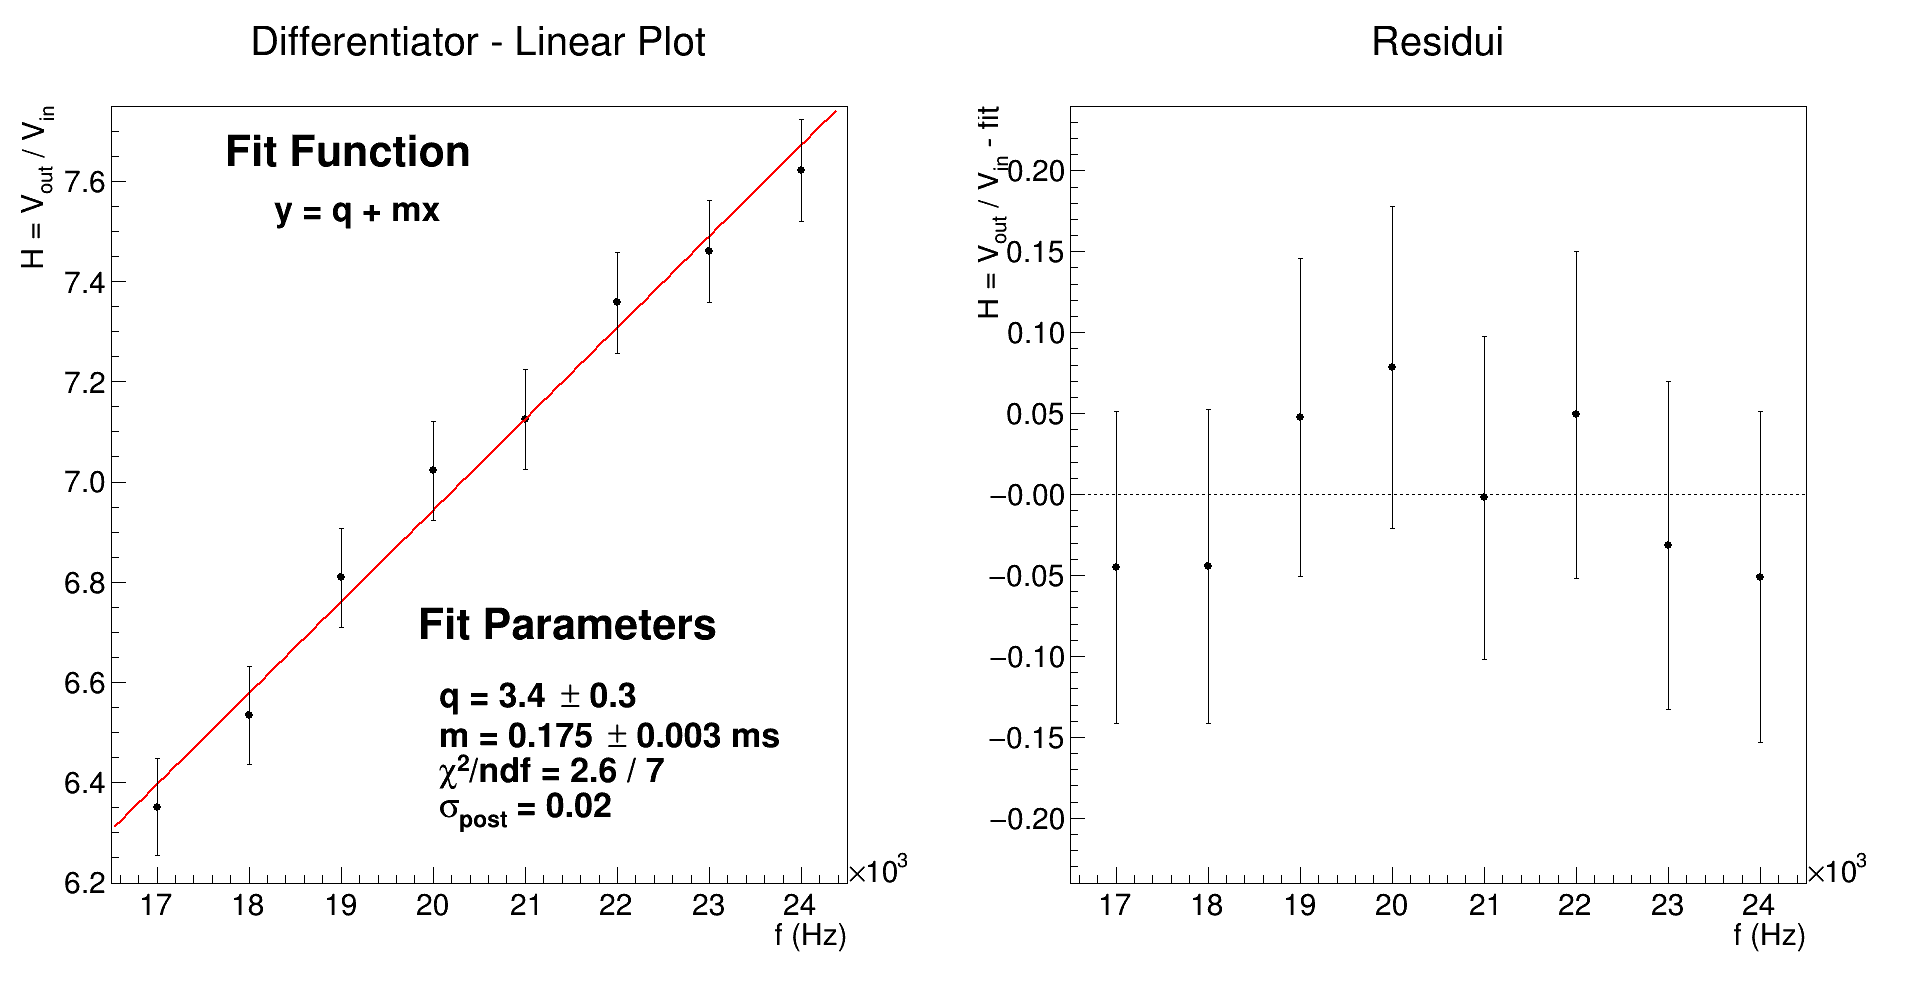
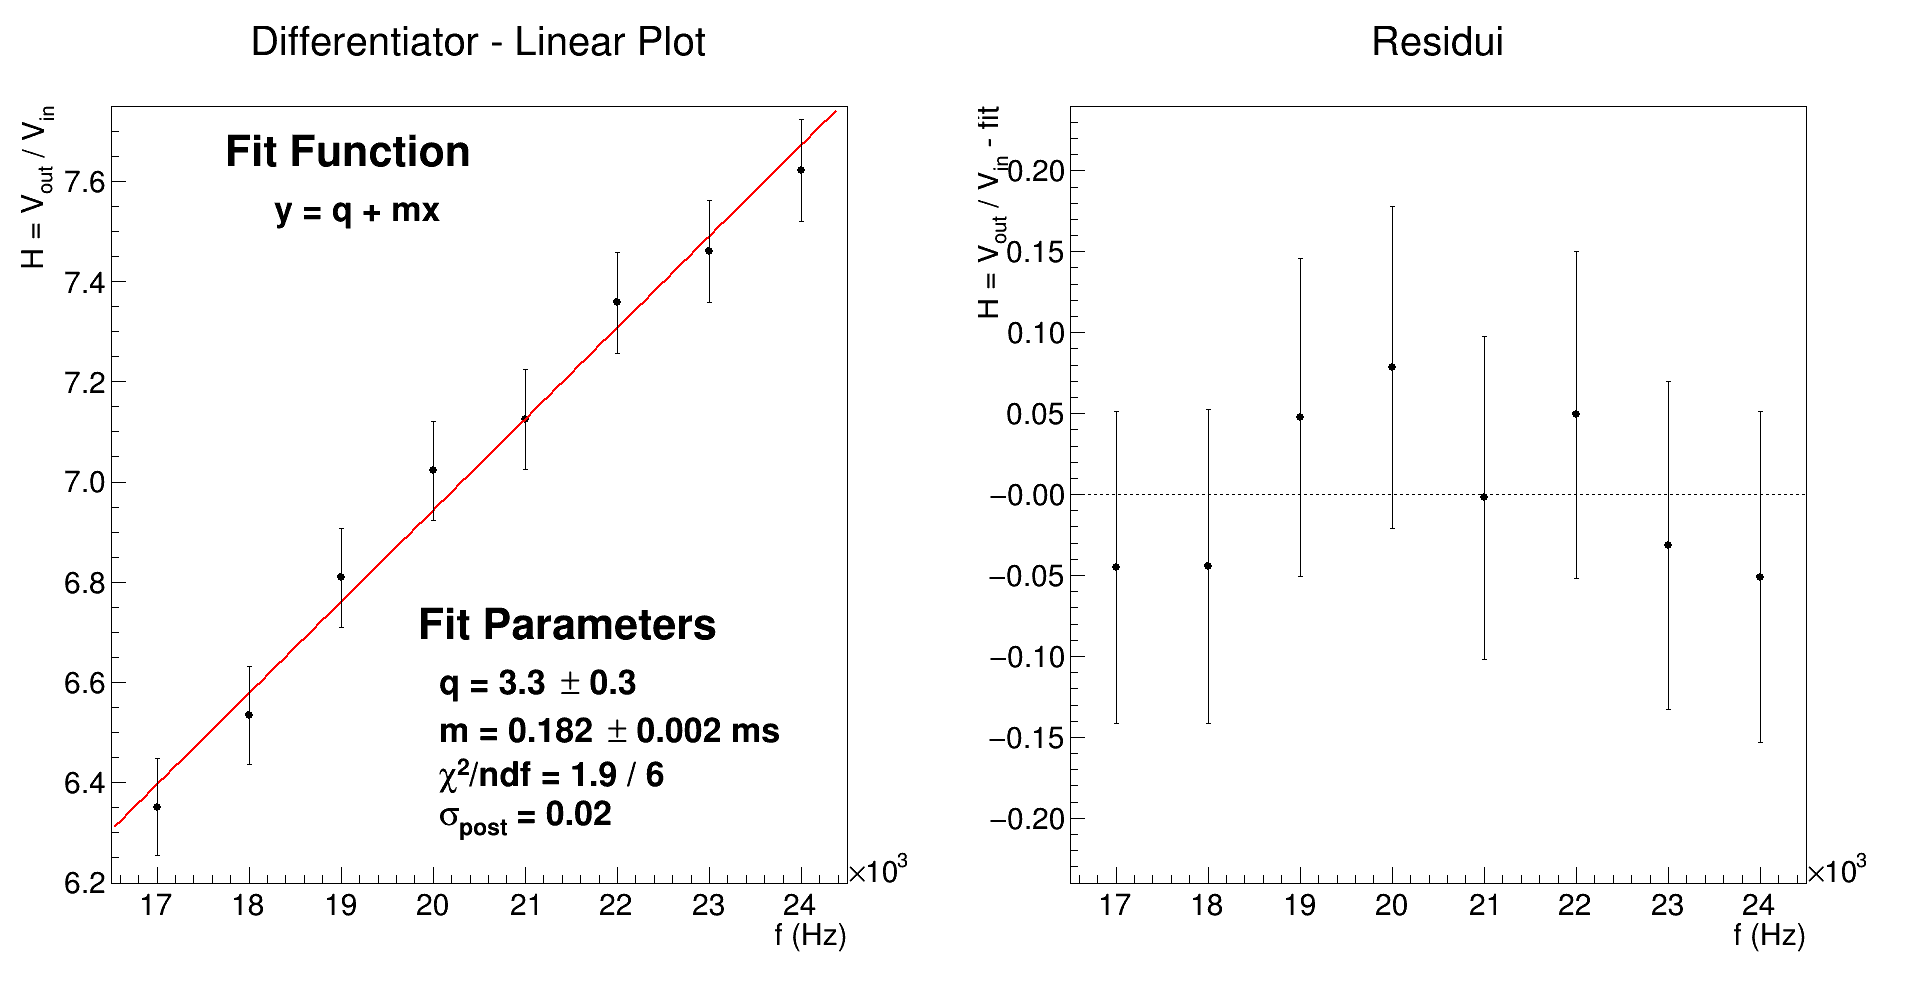
Report Updates

Changed region(s): [[0.2153, 0.666, 0.4307, 0.8476]]

diff --git a/AMPLIFICATORI OPERAZIONALI/ROOT macros/differentiator_bode_linear.cpp b/AMPLIFICATORI OPERAZIONALI/ROOT macros/differentiator_bode_linear.cpp
@@ -105,8 +105,8 @@ void differentiator_bode_linear() {
 
     latex(text);
 
-    //double err_post = err_posteriori(fit_lineare, x, y);
-    //cout << err_post << endl;
+    double err_post = err_posteriori(fit_lineare, x, y);
+    cout << err_post << endl;
 
     return;
 }
@@ -256,15 +256,15 @@ void latex (TLatex* text) {
     text->SetTextSize(0.05);
     text->Draw();
 
-    text = new TLatex(20081.6, 6.55, "q = 3.4 #pm 0.3");
+    text = new TLatex(20081.6, 6.55, "q = 3.3 #pm 0.3");
     text->SetTextSize(0.04);
     text->Draw();
 
-    text = new TLatex(20081.6, 6.47, "m = 0.175 #pm 0.003 ms");
+    text = new TLatex(20081.6, 6.47, "m = 0.182 #pm 0.002 ms");
     text->SetTextSize(0.04);
     text->Draw();
 
-    text = new TLatex(20081.6, 6.40, "#chi^{2}/ndf = 2.6 / 7");
+    text = new TLatex(20081.6, 6.40, "#chi^{2}/ndf = 1.9 / 6");
     text->SetTextSize(0.04);
     text->Draw();
 

diff --git a/AMPLIFICATORI OPERAZIONALI/Report/Report.tex b/AMPLIFICATORI OPERAZIONALI/Report/Report.tex
@@ -828,7 +828,7 @@ dell’interpolazione, in particolare nel calcolo di $f_{\text{t}}$ come segue
 
 \noindent dove appunto $\sigma_{k}=1.5\%$ rappresenta il contributo di scala. Si sceglie allora come $H_{\text{max}} =
 9.76 \pm 0.05$ il valore trovato attraverso il fit parabolico precedente (in scala lineare) e si estrapolano i parametri
-$m$ e $q$ dal seguente fit nell'intervallo di frequenze 17 - 25 kHz.
+$m$ e $q$ dal seguente fit nell'intervallo di frequenze 17 - 24 kHz.
 
 \begin{figure}[H]
 	\centering
